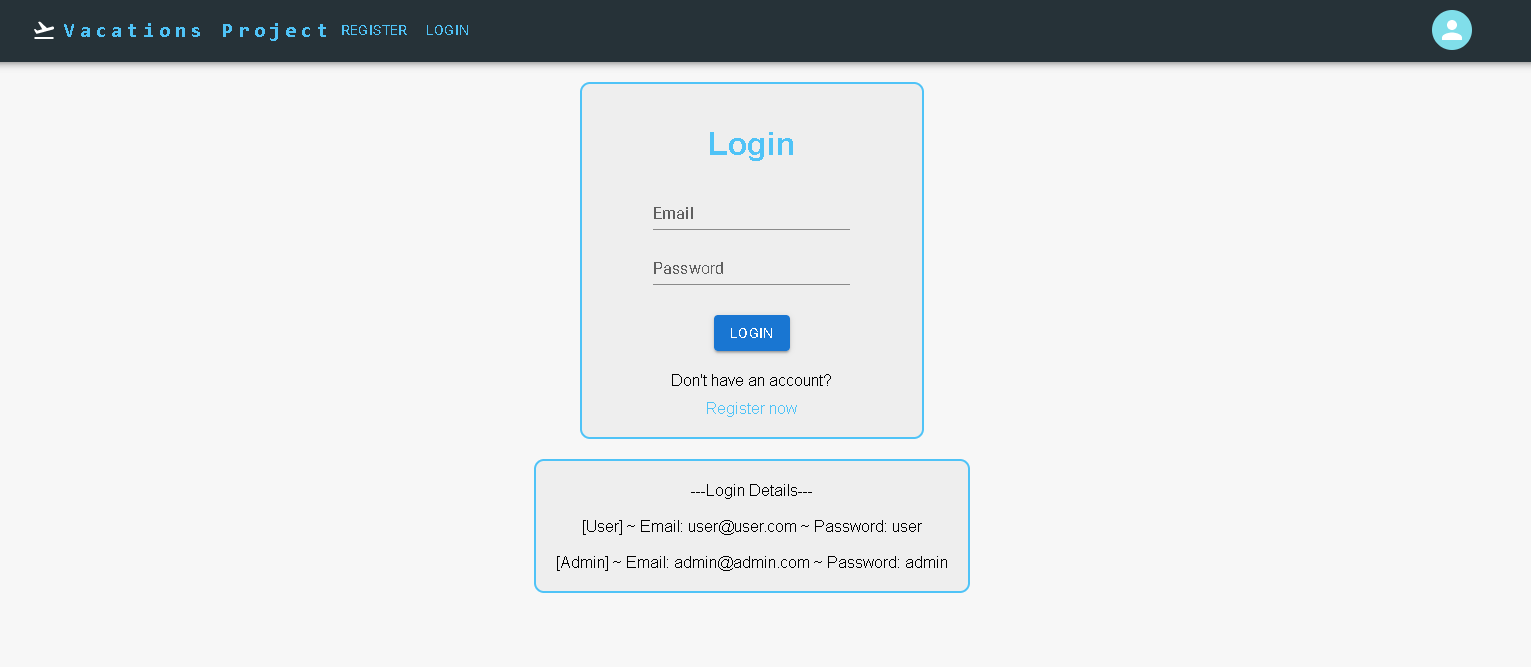
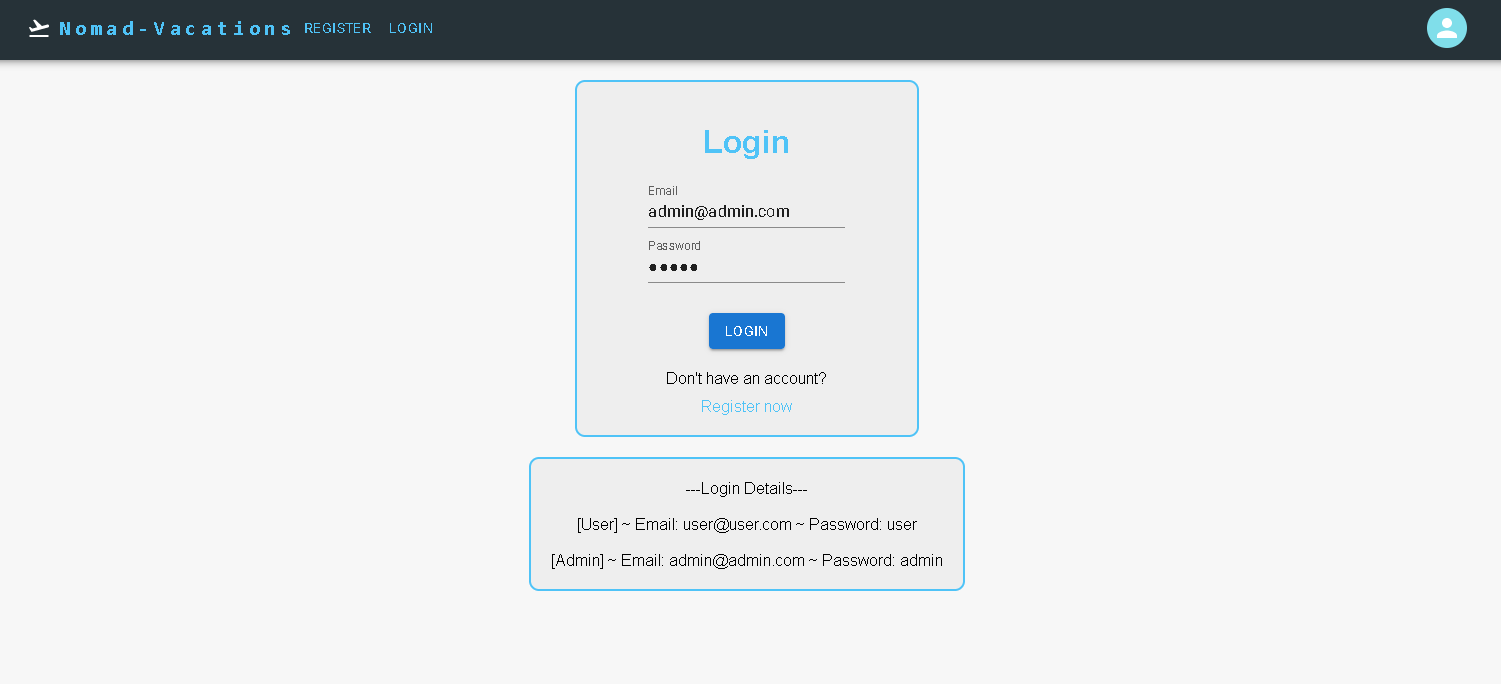
Updated README

Changed region(s): [[0.0, 0.0, 1.0, 0.8696], [0.429, 0.2699, 0.5516, 0.4198], [0.4597, 0.1799, 0.521, 0.2399]]

diff --git a/README.md b/README.md
@@ -1,0 +1,111 @@
+# Vacations
+
+Hello There! Welcome to Vacations. [[Live Demo](https://project-vacations.com/login)]
+
+## Table of contents
+
+- [General Info](#general-info)
+- [Roles and and privileges](#roles-and-privileges)
+- [Infrastructure](#infrastructure)
+- [Interface](#interface)
+- [Setup](#setup)
+
+## General info
+
+This project is a vacation management website.
+Create an account and start viewing and following your favorite vacations.
+Admins will have additional privileges to add, edit, and delete vacations, as well as watch the most popular vacations graph and download it as a CSV file.
+
+## Roles and privileges
+
+#### User
+
+- View vacations
+- Follow / Un-follow vacations
+
+#### Admin
+
+- Add, edit, and delete vacations.
+- View most popular vacations reports graph and download it as a CSV file.
+
+## Infrastructure
+
+This project is built using:
+
+    Client Side: React using Redux written in typescript
+    Server Side: Node.js REST API using Express
+    Database: MySQL
+
+## Interface
+
+### Login page
+
+Users will have to register if they do not have a account
+(for showcasing User and Admin login details are written below the login tab)
+
+![Login](/frontend/src/assets/images/Login.png)
+
+### User
+
+#### Vacations page
+
+    * Logged in users can view the vacations page.
+    * Display vacation details, followers, and follow status.
+    * Page pagination for the listed vacations.
+    * Filtering options for displayed vacations.
+
+![User Homepage](/frontend/src/assets/images/UserHomepage.png)
+
+### Admin
+
+#### Vacations page
+
+    * Logged in admins can view the vacations page.
+    * add new vacations
+    * Display vacation details, update vacation or delete
+    * Page pagination for the listed vacations.
+    * Filtering options for displayed vacations.
+
+![Admin Homepage](/frontend/src/assets/images/AdminHomepage.png)
+
+#### Vacation Chart page
+
+    * A chart which displayes all vacation names and their follower count
+    * Download the chart as a CSV file.
+
+![Admin Chart](/frontend/src/assets/images/Chart.png)
+
+## Setup
+
+### Prerequisites
+
+    * TypeScript
+    * React
+    * Redux
+    * Node.js
+    * Express
+    * MySQL
+    * Docker
+
+### Installation
+
+    # Clone the repo
+    git clone https://github.com/David-Gavrilyuk/Nomad-Vacations.git
+
+    # Install server side NPM packages
+    cd backend
+    npm install
+
+    # Install client side NPM packages
+    cd frontend
+    npm install
+
+    # Run the development server
+    cd backend
+    npm start
+
+    # Run the development client
+    cd frontend
+    npm start
+
+    # Or run docker-compose up -d --build
